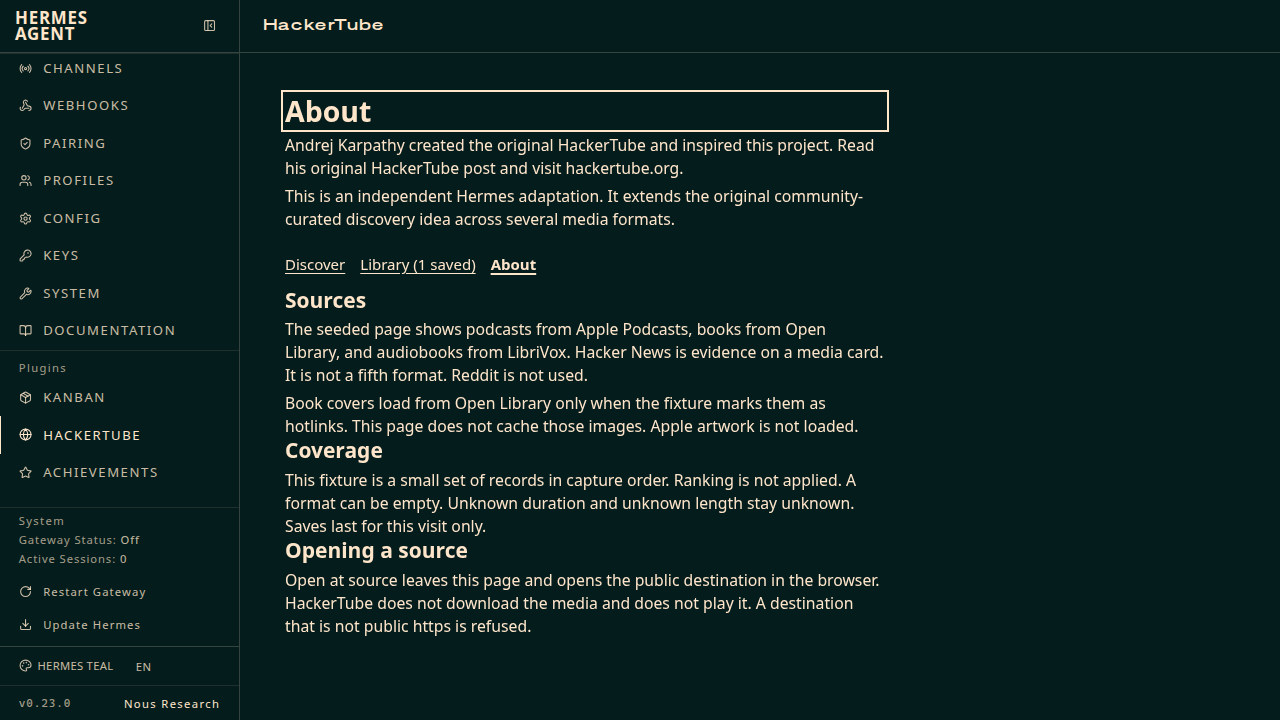
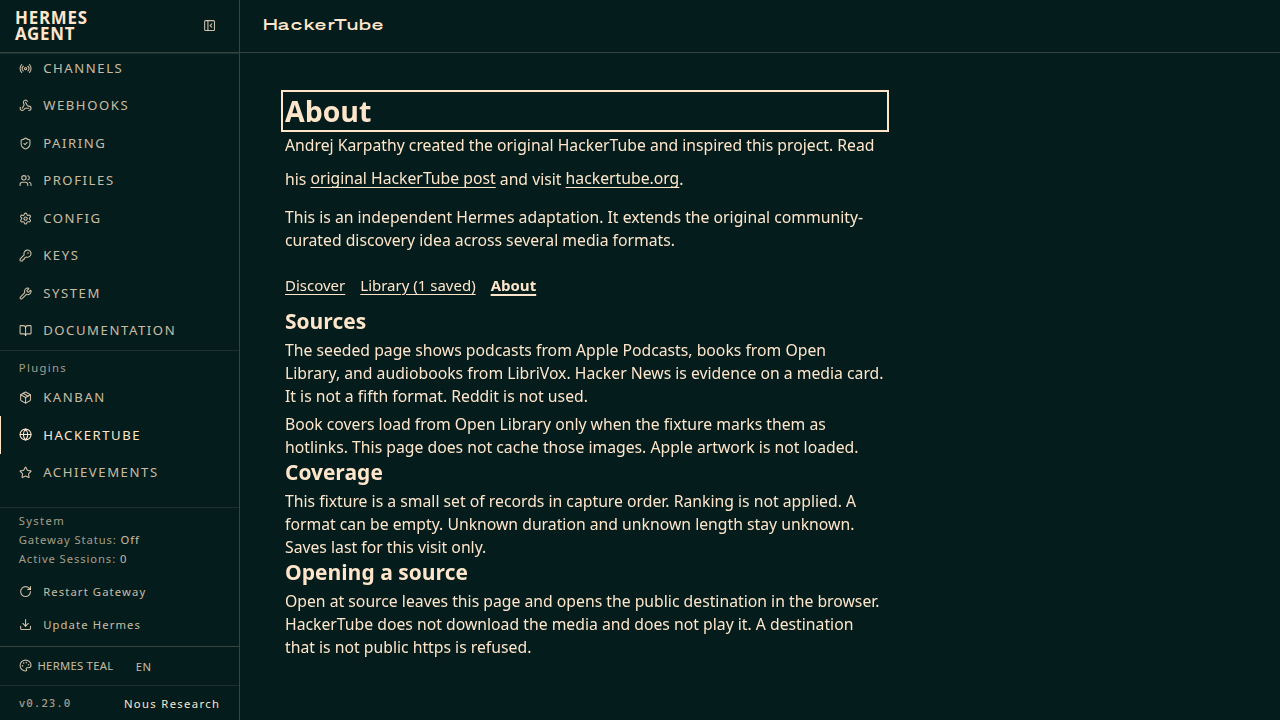
Record dashboard receipts for the accessibility commit
Capture the Hermes v0.23.0 walk, axe runs, and plugin validation against 8e0da8fac87769b975dcfed2f3e2fb60ae38cec2. Task 3.1 stays unchecked.

Changed region(s): [[0.2188, 0.2139, 0.6875, 0.9167]]

diff --git a/docs/receipts/dashboard/capture.js b/docs/receipts/dashboard/capture.js
@@ -271,6 +271,45 @@ async function dismissBanner(page) {
   await page.locator("text=Seeded fixture").waitFor();
   await axe(page, "discover");
 
+  log("a11y empty alert");
+  if (await page.locator("#hackertube-question").count() === 0) {
+    await page.getByRole("button", { name: "Focused search" }).click();
+    await page.locator("#hackertube-question").waitFor();
+  }
+  await page.locator("#hackertube-question").fill("");
+  await page.locator("#hackertube-search-panel").getByRole("button", { name: "Search", exact: true }).click();
+  await page.waitForFunction(() => {
+    const el = document.activeElement;
+    return el && el.getAttribute("role") === "alert" && (el.textContent || "").indexOf("Enter a question") !== -1;
+  });
+  log("a11y alert focus " + JSON.stringify(await activeInfo(page)));
+  await shot(page, "16-focused-alert");
+
+  log("a11y section heading");
+  await page.locator('.ht-sections a[href="#podcasts"]').focus();
+  await page.keyboard.press("Enter");
+  await page.waitForFunction(() => document.activeElement && document.activeElement.id === "podcasts-heading");
+  log("a11y section focus " + JSON.stringify(await activeInfo(page)));
+  await shot(page, "17-focused-section");
+
+  log("a11y text links");
+  await page.locator('.ht-nav a[href="#about"]').click();
+  const creditLink = page.locator('a.ht-text-link[href="https://karpathy.bearblog.dev/hacker-tube/"]');
+  await creditLink.waitFor();
+  const linkStyle = await creditLink.evaluate((el) => {
+    const cs = getComputedStyle(el);
+    return {
+      height: el.getBoundingClientRect().height,
+      decoration: cs.textDecorationLine,
+      className: el.className,
+    };
+  });
+  log("a11y link style " + JSON.stringify(linkStyle));
+  if (linkStyle.height < 40) throw new Error("text link shorter than 40px");
+  if (String(linkStyle.decoration).indexOf("underline") === -1) throw new Error("text link not underlined");
+  log("a11y evidence text links " + await page.locator(".ht-evidence a.ht-text-link").count());
+  await shot(page, "18-underlined-links");
+
   const narrowContext = await browser.newContext({ viewport: { width: 390, height: 844 } });
   const narrow = await narrowContext.newPage();
   narrow.on("request", (req) => record(req.url()));

diff --git a/openspec/changes/hackertube-v1/verification.md b/openspec/changes/hackertube-v1/verification.md
@@ -180,11 +180,11 @@ Tasks 1.1, 1.2, and 1.4 have receipts below. The other scenarios have no impleme
 | Field | Record |
 |---|---|
 | Date | 2026-11-06 |
-| Plugin revision | `233fcdbacbc7fd199e1f788ac23001a8d8e2b66e` |
+| Plugin revision | `8e0da8fac87769b975dcfed2f3e2fb60ae38cec2` |
 | Host | Hermes Agent v0.23.0 (2026.9.24), commit `2bd378ed1b8d6bf2192cb26e0a55ff3091e6bd19`, Python 3.14.10, disposable profile `HERMES_HOME=/tmp/ht-profile` |
-| Scenarios | UI01, UI02, UI03, UI04, UI05, and UI06 pass on the running web dashboard against plugin commit `233fcdbacbc7fd199e1f788ac23001a8d8e2b66e` and the be50886 fixture. SEARCH01 is not executed. LIB02 persistence is not implemented. FEED ranking is not implemented. The task checkbox stays open until `hackertube_core` replaces this fixture. |
+| Scenarios | UI01, UI02, UI03, UI04, UI05, and UI06 pass on the running web dashboard against plugin commit `8e0da8fac87769b975dcfed2f3e2fb60ae38cec2` and the be50886 fixture. SEARCH01 is not executed. LIB02 persistence is not implemented. FEED ranking is not implemented. The task checkbox stays open until `hackertube_core` replaces this fixture. |
 | Procedure | `NODE_PATH=/tmp/pw/node_modules node docs/receipts/dashboard/capture.js` against `http://127.0.0.1:9119/hackertube` after `hermes plugins validate hackertube --install-deps`. The script is [capture.js](../../../docs/receipts/dashboard/capture.js). The raw walk is [walk.log](../../../docs/receipts/dashboard/walk.log). The validate output is [validate.log](../../../docs/receipts/dashboard/validate.log). |
-| Result | Pass for UI01 through UI06 on plugin commit `233fcdbacbc7fd199e1f788ac23001a8d8e2b66e`. Task 3.1 remains unchecked. See the scenario notes below. |
+| Result | Pass for UI01 through UI06 on plugin commit `8e0da8fac87769b975dcfed2f3e2fb60ae38cec2`. Task 3.1 remains unchecked. See the scenario notes below. |
 | Artifacts | [docs/receipts/dashboard/](../../../docs/receipts/dashboard/) |
 
 UI01. The host nav link `HackerTube` points at `/hackertube`. After `location.reload` the page heading is `HackerTube`. Screenshot: [02-after-reload.png](../../../docs/receipts/dashboard/02-after-reload.png).
@@ -197,7 +197,7 @@ UI04. Keyboard activation of Open at source opened `https://podcasts.apple.com/u
 
 UI05. With `?ht_unsafe=1` the page shows the refusal text for `javascript:alert(1)` and `https://127.0.0.1/private` and renders no link with those destinations. The same `destinationDecision` function gates every card. The default page does not show this check. Mapped IPv6 forms, including hex `::ffff:7f00:1` and `::ffff:a00:1`, are refused by the node tests at this plugin revision. Screenshot: [13-unsafe.png](../../../docs/receipts/dashboard/13-unsafe.png).
 
-UI06. Tab order reaches the host navigation before Discover. Discover's focus outline is `solid 2px` using the host ring color. Escape closes an idle search and returns focus to Focused search. The question `What can I read or listen to by Jane Austen?` is typed into the labelled field. The disclosure is visible and tied with `aria-describedby`. Enter on Search focuses `Search results` and shows that no search was started. Enter on Save changes that control to `Saved` with `aria-disabled="true"`, announces the save, and sets the nav to `Library (1 saved)`. A second Enter does not add another save. Shift+Tab returns to Open at source. About is opened from the keyboard and its heading receives focus. Axe reports 0 violations on discover, search open, library, about, and the 390px width. At 390px and 768px the card grid is one column and the plugin root does not scroll sideways. Screenshots: [07-search-disclosure.png](../../../docs/receipts/dashboard/07-search-disclosure.png), [08-search-results.png](../../../docs/receipts/dashboard/08-search-results.png), [09-saved-focus.png](../../../docs/receipts/dashboard/09-saved-focus.png), [10-library.png](../../../docs/receipts/dashboard/10-library.png), [12-keyboard-focus.png](../../../docs/receipts/dashboard/12-keyboard-focus.png), [14-width-390.png](../../../docs/receipts/dashboard/14-width-390.png), [15-width-768.png](../../../docs/receipts/dashboard/15-width-768.png). Machine summary: [report.json](../../../docs/receipts/dashboard/report.json).
+UI06. Tab order reaches the host navigation before Discover. Discover's focus outline is `solid 2px` using the host ring color. Escape closes an idle search and returns focus to Focused search. The question `What can I read or listen to by Jane Austen?` is typed into the labelled field. The disclosure is visible and tied with `aria-describedby`. Enter on Search focuses `Search results` and shows that no search was started. Enter on Save changes that control to `Saved` with `aria-disabled="true"`, announces the save, and sets the nav to `Library (1 saved)`. A second Enter does not add another save. Shift+Tab returns to Open at source. About is opened from the keyboard and its heading receives focus. An empty Search moves focus to the alert after it mounts, with a solid 2px ring: [16-focused-alert.png](../../../docs/receipts/dashboard/16-focused-alert.png). Activating Podcasts moves focus to that section `h2`: [17-focused-section.png](../../../docs/receipts/dashboard/17-focused-section.png). About links use `ht-text-link`, are underlined, and are 44px tall: [18-underlined-links.png](../../../docs/receipts/dashboard/18-underlined-links.png). This fixture has no evidence anchor to photograph. The same class is covered by the node test `evidence and about links use the text link class`. Axe reports 0 violations on discover, search open, library, about, and the 390px width. At 390px and 768px the card grid is one column and the plugin root does not scroll sideways. Screenshots: [07-search-disclosure.png](../../../docs/receipts/dashboard/07-search-disclosure.png), [08-search-results.png](../../../docs/receipts/dashboard/08-search-results.png), [09-saved-focus.png](../../../docs/receipts/dashboard/09-saved-focus.png), [10-library.png](../../../docs/receipts/dashboard/10-library.png), [12-keyboard-focus.png](../../../docs/receipts/dashboard/12-keyboard-focus.png), [14-width-390.png](../../../docs/receipts/dashboard/14-width-390.png), [15-width-768.png](../../../docs/receipts/dashboard/15-width-768.png). Machine summary: [report.json](../../../docs/receipts/dashboard/report.json).
 
 Checks quoted from this run:
 
@@ -207,8 +207,8 @@ Ran 2 tests in 0.002s
 OK
 
 node --test tests/test_dashboard_page.js
-ℹ tests 14
-ℹ pass 14
+ℹ tests 17
+ℹ pass 17
 ℹ fail 0
 
 python3 scripts/check_spec_coverage.py
